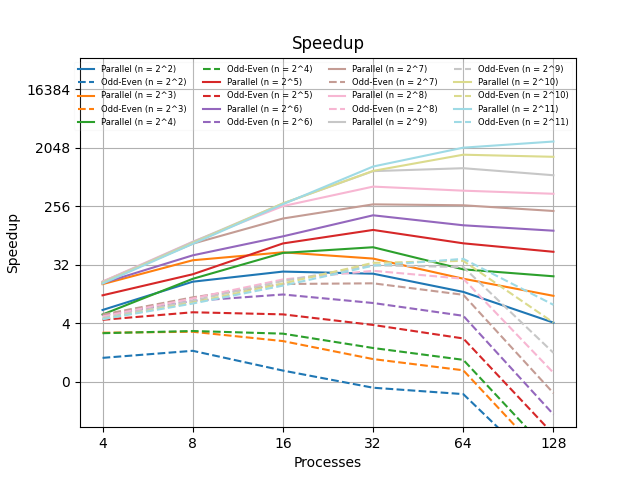
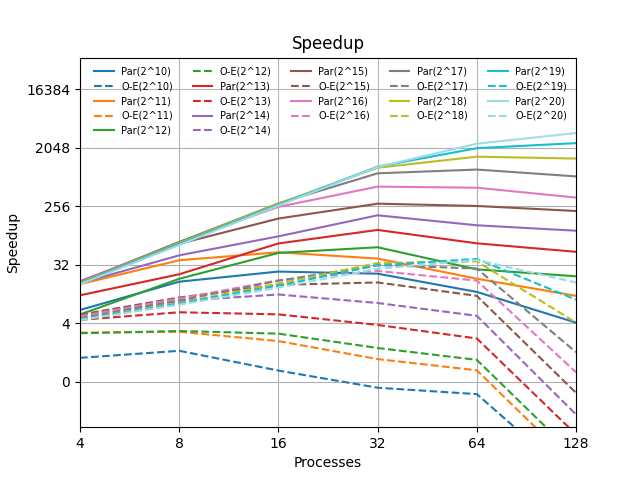
Finish p2

diff --git a/practica-06/P2/processing.py b/practica-06/P2/processing.py
@@ -28,20 +28,21 @@ for size in sizes:
 # times plot, one palette of colors for each size
 colors = plt.cm.tab20(np.linspace(0, 1, len(sizes)))
 
-exp = 2
+exp = 10
 for size in sizes:
-    plt.plot(processes, times_dict[size]['parallel'], color=colors[sizes.index(size)], label='Parallel (n = 2^{})'.format(exp))
-    plt.plot(processes, times_dict[size]['odd_even'], color=colors[sizes.index(size)], linestyle='--', label='Odd-Even (n = 2^{})'.format(exp))
+    plt.plot(processes, times_dict[size]['parallel'], color=colors[sizes.index(size)], label='Par (2^{})'.format(exp))
+    plt.plot(processes, times_dict[size]['odd_even'], color=colors[sizes.index(size)], linestyle='--', label='O-E (2^{})'.format(exp))
     exp += 1
 
 # legend transparent
-plt.legend(ncol=4, loc='upper right', prop={'size': 6}, framealpha=0.1)
+plt.legend(ncol=5, loc='upper left', prop={'size': 7}, framealpha=0.1)
 plt.title('Times')
 plt.xlabel('Processes')
 plt.ylabel('Time (s)')
 plt.xscale('log', base=2)
 plt.yscale('log', base=2)
-plt.ylim(0.0001, 10000)
+plt.xlim(4, 128)
+plt.ylim(0.0001, 100000)
 plt.gca().xaxis.set_major_formatter(ScalarFormatter())
 plt.gca().yaxis.set_major_formatter(ScalarFormatter())
 plt.grid()
@@ -49,21 +50,22 @@ plt.savefig('times.png')
 plt.clf()
 
 # speedup plot
-exp = 2
+exp = 10
 for size in sizes:
     sequential_time = times_dict[size]['sequential']
     times_dict[size]['speedup_parallel'] = [sequential_time / time for time in times_dict[size]['parallel']]
     times_dict[size]['speedup_odd_even'] = [sequential_time / time for time in times_dict[size]['odd_even']]
-    plt.plot(processes, times_dict[size]['speedup_parallel'], color=colors[sizes.index(size)], label='Parallel (n = 2^{})'.format(exp))
-    plt.plot(processes, times_dict[size]['speedup_odd_even'], color=colors[sizes.index(size)], linestyle='--', label='Odd-Even (n = 2^{})'.format(exp))
+    plt.plot(processes, times_dict[size]['speedup_parallel'], color=colors[sizes.index(size)], label='Par(2^{})'.format(exp))
+    plt.plot(processes, times_dict[size]['speedup_odd_even'], color=colors[sizes.index(size)], linestyle='--', label='O-E(2^{})'.format(exp))
     exp += 1
 
-plt.legend(ncol=4, loc='upper right', prop={'size': 6}, framealpha=0.1)
+plt.legend(ncol=5, loc='upper right', prop={'size': 7}, framealpha=0.1)
 plt.title('Speedup')
 plt.xlabel('Processes')
 plt.ylabel('Speedup')
 plt.xscale('log', base=2)
 plt.yscale('log', base=2)
+plt.xlim(4, 128)
 plt.ylim(0.1, 50000)
 plt.gca().xaxis.set_major_formatter(ScalarFormatter())
 plt.gca().yaxis.set_major_formatter(ScalarFormatter())

diff --git a/practica-06/P2/p2.cpp b/practica-06/P2/p2.cpp
@@ -41,6 +41,7 @@ int main(int argc, char *argv[])
 #endif
   // se ordena el array secuencialmente
   t1 = Sortseq(numeros, size);
+  //t1 = 0.0;
   // se divide el array en p partes y se ordena cada parte, luego se realiza un merge
   t2 = SortParallel(numeros2, size);
   // se ordena el array con el algoritmo EvenOdd

diff --git a/practica-06/P2/README.md b/practica-06/P2/README.md
@@ -10,7 +10,9 @@ Si ejecutamos el archivo debug.bash, veremos en consola el array original, los a
 
 ## Resultados
 
+Observación: El tiempo secuencial de n = 2^20 fue calculado a partir de los anteriores (aproximadamente por 4 debido a la complejidad O(n^2) del algoritmo) debido al elevado tiempo que requería. También se puede observar el comportamiento de los tiempos respecto al número de procesadores y a la cantidad de datos. Cuando duplicamos el número de datos, el tiempo se multiplica por 4 aproximadamente, debido a la complejidad de la ordenación O(n^2). Por otro lado, al duplicar el número de procesadores, el tiempo del Bubblesort en paralelo se divide entre 4 por la complejidad O(n^2/p^2) de la ordenación de cada subarray, mientras que el tiempo de Odd-Even solo se divide entre 2 aproximadamente, limitado por la complejidad O(n/p lg(n/p)) del algoritmo y la comunicación entre procesos.
+
 Se generan las gráficas times.png y speedup.png a partir de los experimentos usados. Como se observa en times.png, el algoritmo de ordenación Bubblesort en paralelo (línea sólida) es más rápido que el de Odd-Even (líneas punteadas) para un n constante. Conforme aumentamos el valor de n, el valor óptimo de la cantidad de procesos a usar incrementa. Sin embargo, se puede notar que este valor es mayor para una misma cantidad de elementos en el algoritmo de Bubblesort en paralelo.
 
-En cuanto al Speedup, se refleja el comportamiento observado en times.png. El algoritmo de Bubblesort en paralelo (línea sólida) se acerca más al Speedup ideal que el de Odd-Even (líneas punteadas). Y para cantidades bajas de elementos en el array, ambos algoritmos no son escalables. Sin embargo, el Bubblesort en paralelo es más escalable que el Odd-Even para valores elevados de la cantidad de elementos n.
+En cuanto al Speedup, se refleja el comportamiento observado en times.png. El algoritmo de Bubblesort en paralelo (línea sólida) se acerca más al Speedup ideal que el de Odd-Even (líneas punteadas). Y para cantidades bajas de elementos en el array, ambos algoritmos no son escalables. Sin embargo, el Bubblesort en paralelo es más escalable que el Odd-Even para valores elevados de la cantidad de elementos n, ya que se acerca mejor a la curva ideal.
 
